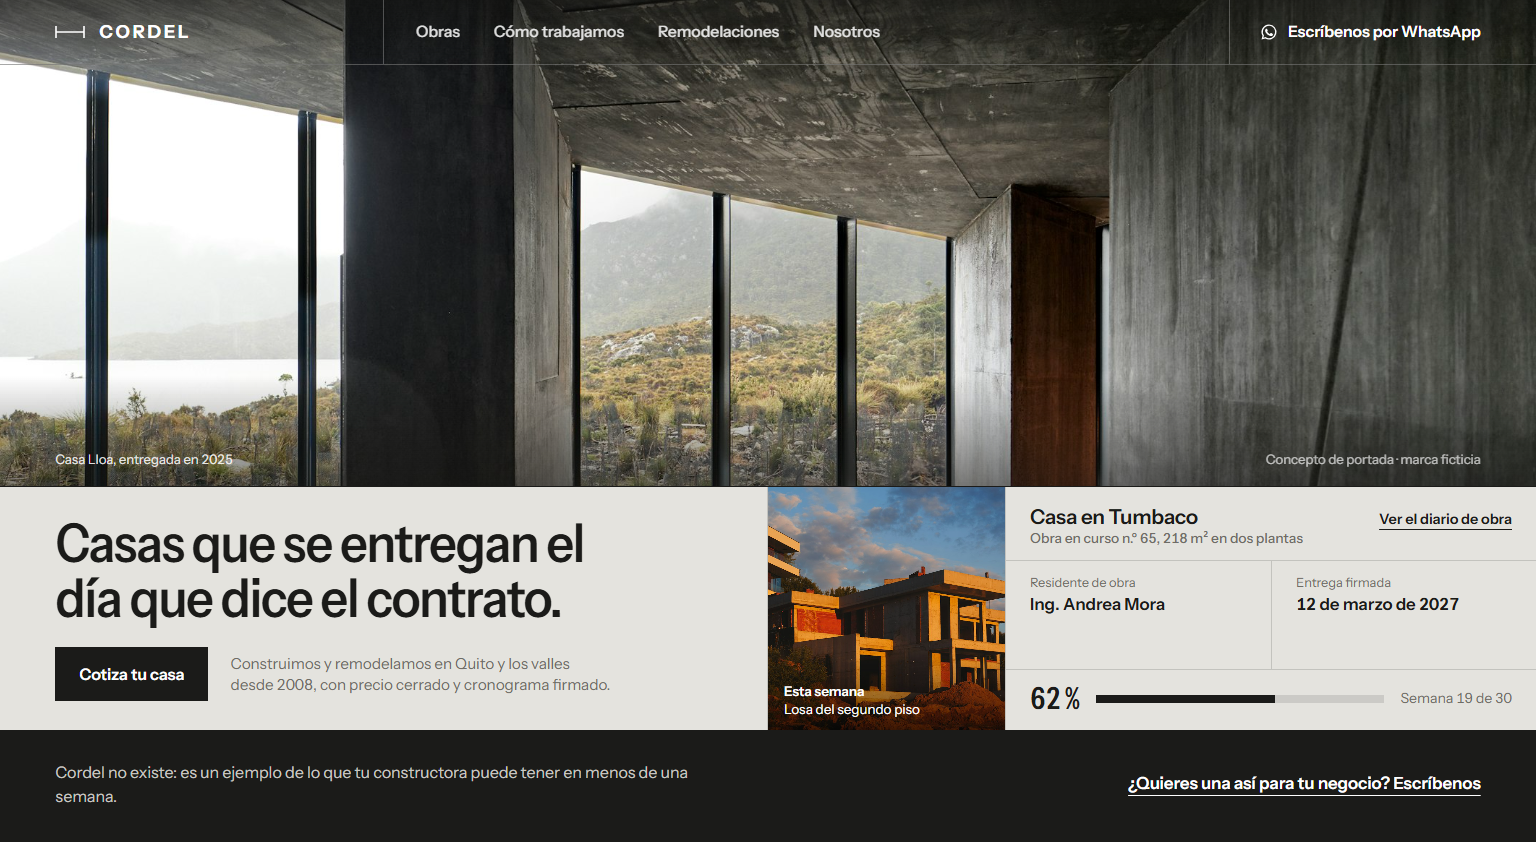
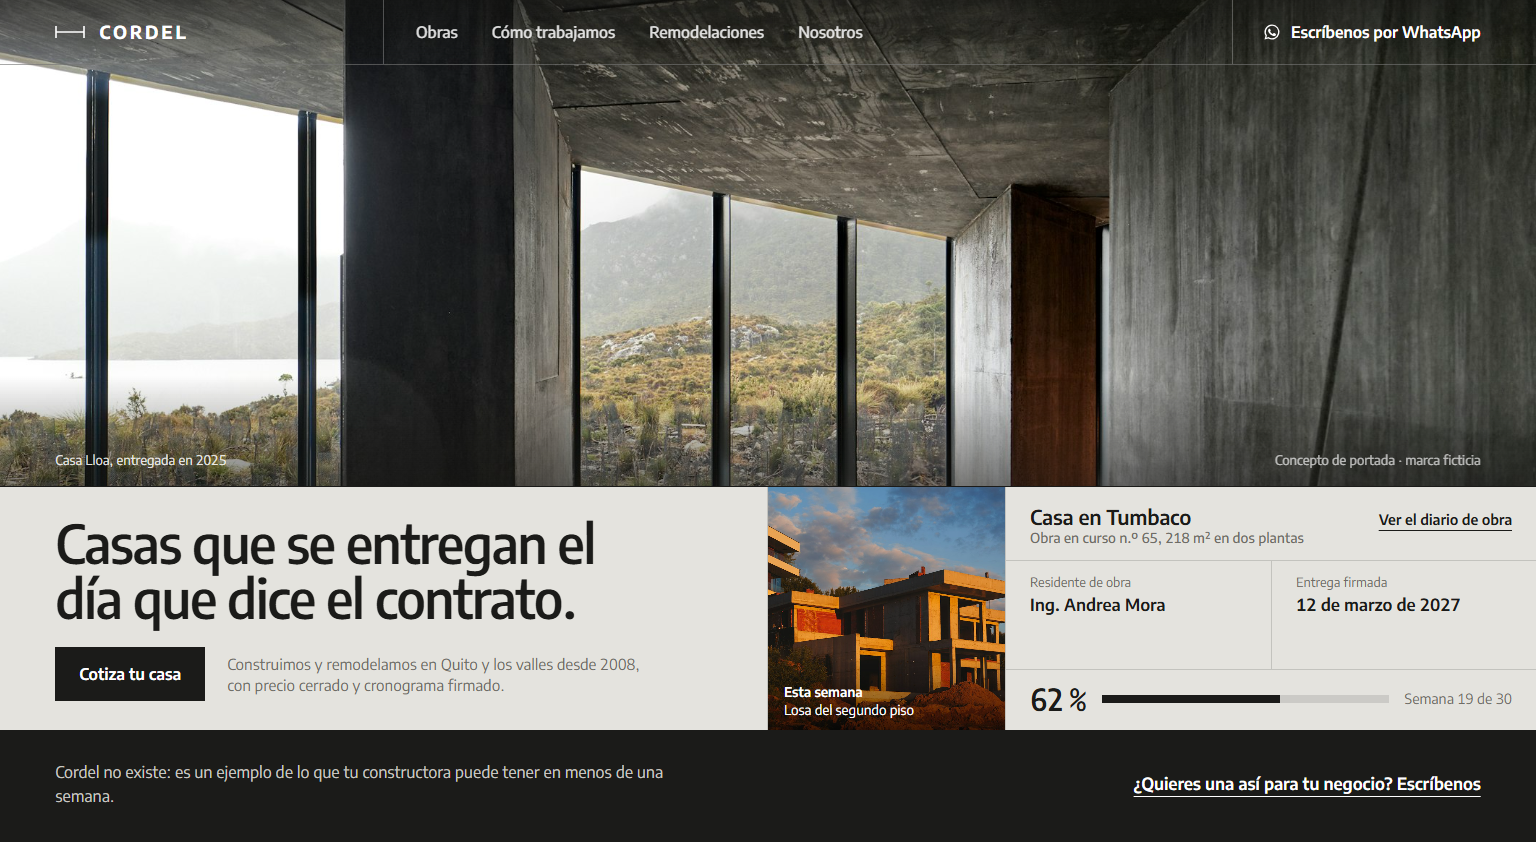
fix(portafolio): Cordel pasa de Instrument Sans a Encode Sans
El detector de Impeccable marca Instrument Sans como fuente sobreusada.
Encode Sans estrecha tiene aire de rotulación técnica de plano y conserva
el eje de anchura para el titular y las cifras. Capturas rehechas.

diff --git a/.impeccable/mocks/portafolio/constructora.html b/.impeccable/mocks/portafolio/constructora.html
@@ -13,7 +13,7 @@
      Fotos: Neon Wang y Maxim Tolchinskiy, Unsplash (ver FUENTES.md). -->
 <link rel="preconnect" href="https://fonts.googleapis.com">
 <link rel="preconnect" href="https://fonts.gstatic.com" crossorigin>
-<link href="https://fonts.googleapis.com/css2?family=Instrument+Sans:wdth,wght@75..100,400..700&display=swap" rel="stylesheet">
+<link href="https://fonts.googleapis.com/css2?family=Encode+Sans:wdth,wght@75..125,400..800&display=swap" rel="stylesheet">
 <style>
   :root {
     --grafito: #1B1B19;
@@ -33,7 +33,7 @@
   body {
     background: var(--cemento);
     color: var(--grafito);
-    font: 400 16px/1.5 'Instrument Sans', 'Segoe UI', system-ui, sans-serif;
+    font: 400 16px/1.5 'Encode Sans', 'Segoe UI', system-ui, sans-serif;
     font-feature-settings: 'tnum' 1;
     -webkit-font-smoothing: antialiased;
   }
@@ -116,7 +116,7 @@
     transition: background-color .2s;
   }
   .cotizar:hover { background: #000; }
-  .accion p { margin: 0; max-width: 38ch; color: var(--hormigon); font-size: .95rem; line-height: 1.4; }
+  .accion p { margin: 0; max-width: 46ch; color: var(--hormigon); font-size: .95rem; line-height: 1.4; }
 
   .ficha { display: grid; grid-template-columns: 31% 1fr; }
   .semana { position: relative; margin: 0; border-right: 1px solid var(--linea); overflow: hidden; }

diff --git a/.impeccable/mocks/portafolio/FUENTES.md b/.impeccable/mocks/portafolio/FUENTES.md
@@ -50,7 +50,7 @@ negro con dorado; y un guiso en olla de barro para el restaurante, porque dos fo
 Google Fonts, licencia OFL. Distintas entre sí y de las de CJM Nexus (Plus Jakarta Sans e Inter).
 
 - **Tres Ollas:** Caprasimo (rótulo pintado de picantería) y Figtree.
-- **Cordel:** Instrument Sans, con su eje de anchura para las cifras.
+- **Cordel:** Encode Sans, grotesca de aire técnico, con su eje de anchura para el titular y las cifras.
 - **Orilla:** Rozha One (didona gruesa de rótulo y cartel del XIX) y Hanken Grotesk.
 
 ## Referencias
